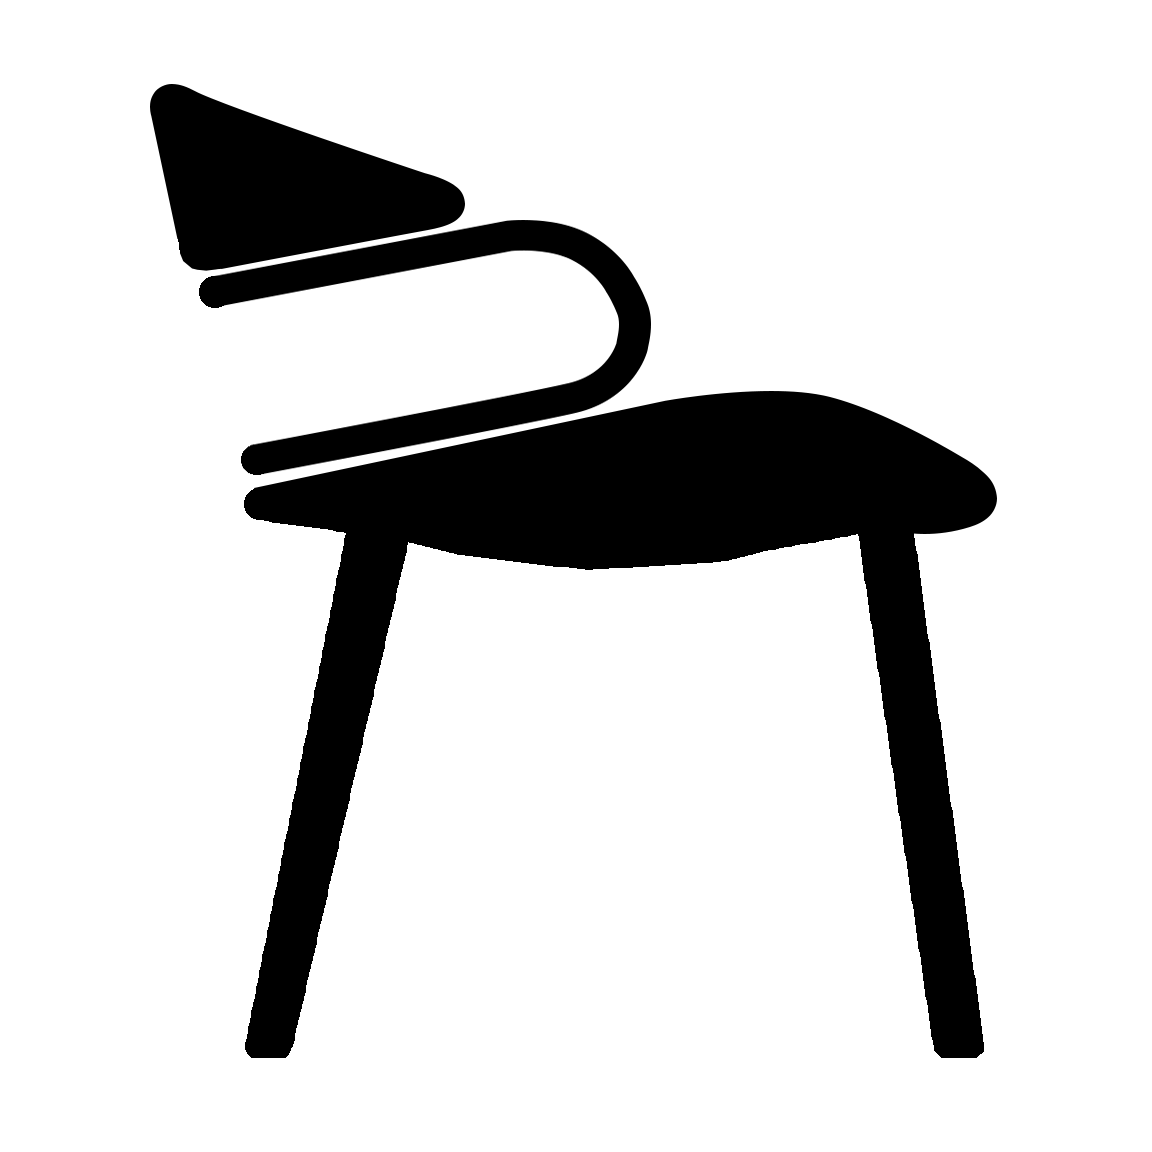
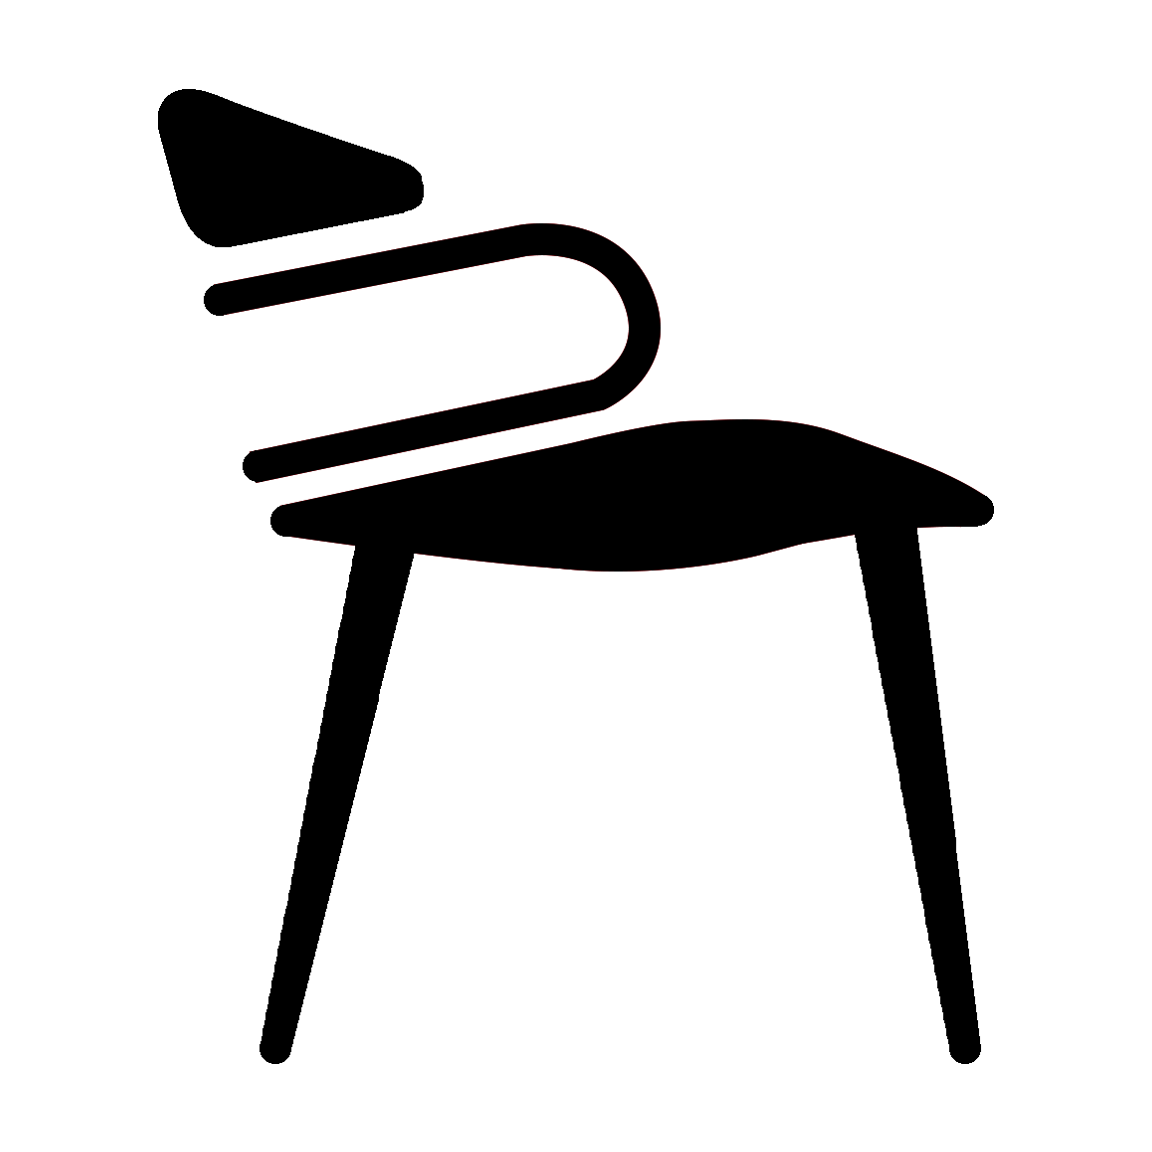
atualizacoes tlm

diff --git a/style.css b/style.css
@@ -12,23 +12,72 @@ body {
 }
 
 
-/*----------- LINTRO VIDEO ----------------------------------------------------------------------------------------------------*/
+
+/*----------- INTRO VIDEO ----------------------------------------------------------------------------------------------------*/
 .intro-video {
   position: fixed;
   top: 0;
   left: 0;
   width: 100%;
   height: 100%;
-  z-index: 9999;
+  z-index: 10000; /* Maior que tudo */
   overflow: hidden;
   background: black;
+  
+  /* CRÍTICO para iPad/iOS - permite toques/cliques */
+  cursor: pointer;
+  -webkit-tap-highlight-color: rgba(255, 255, 255, 0.1);
+  touch-action: manipulation;
+  -webkit-user-select: none;
+  user-select: none;
 }
 
 .intro-video video {
   width: 100%;
   height: 100%;
   object-fit: cover;
+  
+  /* ESSENCIAL: Permite que toques/cliques passem para a div pai */
+  pointer-events: none;
+  -webkit-user-select: none;
+  user-select: none;
 }
+
+/* Indicador de play */
+.play-indicator {
+  position: absolute;
+  top: 50%;
+  left: 50%;
+  transform: translate(-50%, -50%);
+  z-index: 10;
+  text-align: center;
+  pointer-events: none;
+  animation: fadeIn 0.3s ease-in, pulse 2s infinite 0.5s;
+}
+
+@keyframes fadeIn {
+  from { 
+    opacity: 0; 
+    transform: translate(-50%, -50%) scale(0.8); 
+  }
+  to { 
+    opacity: 1; 
+    transform: translate(-50%, -50%) scale(1); 
+  }
+}
+
+@keyframes pulse {
+  0%, 100% { 
+    opacity: 1; 
+    transform: translate(-50%, -50%) scale(1); 
+  }
+  50% { 
+    opacity: 0.7; 
+    transform: translate(-50%, -50%) scale(1.05); 
+  }
+}
+
+
 
 /*----------- NUVENS E CONTEUDO ----------------------------------------------------------------------------------------------------*/
 #three-background {
@@ -56,6 +105,7 @@ body {
   position: relative;
   z-index: 200; /* HTML A FRENTE DAS NUVENS */
 }
+
 
 
 /*----------- TEXTO INICIAL ----------------------------------------------------------------------------------------------------*/
@@ -157,20 +207,23 @@ body {
 }
 
 
+
 /*----------- LOGO --------------------------------------------------------------------------------------------------------*/
 #btn-logo {
   position: fixed;
-  top: 20px;
-  left: 20px;
-  width: 70px;
-  height: auto;
-  z-index: 100; /* Fica à frente do texto inicial e principal, mas atrás do menu */
+  z-index: 100;
   cursor: pointer;
   pointer-events: auto;
   opacity: 0;
   animation: fadeInMenu 1s forwards;
   animation-delay: 2s;
+  height: auto; /* Mantém a proporção automática */
+  width: clamp(70px, 5vw, 70px);
+  top: clamp(15px, 3vw, 20px);
+  left: clamp(15px, 3vw, 20px);
 }
+
+
 
 /*----------- MENU TOPO ----------------------------------------------------------------------------------------------------*/
 .top-menu {
@@ -231,7 +284,6 @@ body {
 
 
 
-
 /*----------- Página Inicial ----------------------------------------------------------------------------------------------------*/
 .home-page {
   position: fixed;
@@ -266,7 +318,6 @@ body {
   }
 }
 
-
 .home-title {
   font-family: 'Anton', sans-serif;
   font-size: 18vw;
@@ -282,7 +333,6 @@ body {
   animation: slideUpFade 1.5s ease-out forwards;
   animation-delay: 0s;
 }
-
 
 .home-subtitle {
   position: absolute;
@@ -300,7 +350,6 @@ body {
   opacity: 0; /* começa invisível */
   text-shadow: 0px 1px 10px rgba(0, 0, 0, 0.2);
 }
-
 
 .page {
   position: fixed;
@@ -322,7 +371,6 @@ body {
   visibility: visible;
   pointer-events: auto;
 }
-
 
 
 
@@ -359,7 +407,7 @@ body {
 }
 
 .gallery-wrapper {
-  width: 90vw;
+  width: 100vw;
   height: 100vh;
   display: flex;
   align-items: center;

diff --git a/index.html b/index.html
@@ -29,36 +29,43 @@
 
 <!--------------- INTRO VIDEO ------------------------------------------------->
 <div class="intro-video" id="intro">
-    <video playsinline autoplay muted class="intro-bg" id="introVideo">
+    <video 
+        playsinline 
+        autoplay 
+        muted 
+        preload="auto"
+        webkit-playsinline
+        class="intro-bg" 
+        id="introVideo">
         <source src="./mainpage/INTRO_VIDEO.mp4" type="video/mp4">
         Your browser does not support the video tag.
     </video>
 </div>
 
-  <!-- Vertex Shader -->
-  <script id="vs" type="x-shader/x-vertex">
-    varying vec2 vUv;
-    void main() {
-      vUv = uv;
-      gl_Position = projectionMatrix * modelViewMatrix * vec4(position, 1.0);
-    }
-  </script>
+<!-- Vertex Shader -->
+<script id="vs" type="x-shader/x-vertex">
+  varying vec2 vUv;
+  void main() {
+    vUv = uv;
+    gl_Position = projectionMatrix * modelViewMatrix * vec4(position, 1.0);
+  }
+</script>
 
-  <!-- Fragment Shader -->
-  <script id="fs" type="x-shader/x-fragment">
-    uniform sampler2D map;
-    uniform vec3 fogColor;
-    uniform float fogNear;
-    uniform float fogFar;
-    varying vec2 vUv;
-    void main() {
-      float depth = gl_FragCoord.z / gl_FragCoord.w;
-      float fogFactor = smoothstep(fogNear, fogFar, depth);
-      gl_FragColor = texture2D(map, vUv);
-      gl_FragColor.w *= pow(gl_FragCoord.z, 20.0);
-      gl_FragColor = mix(gl_FragColor, vec4(fogColor, gl_FragColor.w), fogFactor);
-    }
-  </script>
+<!-- Fragment Shader -->
+<script id="fs" type="x-shader/x-fragment">
+  uniform sampler2D map;
+  uniform vec3 fogColor;
+  uniform float fogNear;
+  uniform float fogFar;
+  varying vec2 vUv;
+  void main() {
+    float depth = gl_FragCoord.z / gl_FragCoord.w;
+    float fogFactor = smoothstep(fogNear, fogFar, depth);
+    gl_FragColor = texture2D(map, vUv);
+    gl_FragColor.w *= pow(gl_FragCoord.z, 20.0);
+    gl_FragColor = mix(gl_FragColor, vec4(fogColor, gl_FragColor.w), fogFactor);
+  }
+</script>
 
   <!-- Bibliotecas -->
   <script src="js/three.min.js"></script>

diff --git a/projects/general_css.css b/projects/general_css.css
@@ -809,66 +809,6 @@ model-viewer.visible {
   }
 }
 
-/* --- Responsive Adjustments --- */
-@media (max-width: 1024px) {
-  .gallery {
-    width: 28%; /* Wider on slightly smaller screens */
-    right: 15px;
-  }
-  .gallery-item {
-    flex: 1 1 120px;
-    max-width: 160px;
-  }
-}
-
-@media (max-width: 768px) {
-  .gallery {
-    right: 10px;
-    width: 90%; /* Much wider on tablets/larger phones */
-    max-height: 80%;
-    left: 50%;
-    transform: translateX(-50%); /* Center the gallery */
-    bottom: 10px !important; /* Ensure it stays at the bottom */
-  }
-  .gallery.closed {
-    animation: slideDown 1.0s ease-in forwards;
-    transform: translateX(-50%) translateY(100%); /* Adjust transform for closing */
-  }
-  .gallery-items {
-    justify-content: center; /* Center items on smaller screens */
-    padding: 10px;
-  }
-  .gallery-item {
-    flex: 1 1 100px; /* Smaller base for items */
-    max-width: 150px;
-  }
-  .gallery-text {
-    font-size: 1em;
-    padding: 12px;
-  }
-}
-
-@media (max-width: 480px) {
-  .gallery {
-    right: 5px;
-    left: 5px;
-    width: auto; /* Let content dictate width within padding */
-    max-height: 85%;
-    bottom: 5px !important;
-    transform: none; /* Remove transform for centering if width is auto */
-  }
-  .gallery.closed {
-    transform: translateY(100%); /* Adjust transform for closing */
-  }
-  .gallery-items {
-    gap: 8px; /* Slightly less gap on very small screens */
-  }
-  .gallery-item {
-    flex: 1 1 100%; /* Stack items vertically on very small phones */
-    max-width: 90%; /* Max width relative to gallery */
-    margin: 0 auto; /* Center individual items */
-  }
-}
 
 
 

diff --git a/main.js b/main.js
@@ -257,6 +257,7 @@ document.addEventListener('DOMContentLoaded', () => {
     { src: 'projects/model5/thumbnail.png', title: 'GF CHAIR', model: 'model5' },
     { src: 'projects/model4/thumbnail.png', title: 'CANTAREIRA', model: 'model4' },
     { src: 'projects/model13/thumbnail.png', title: 'FLOWERPOT', model: 'model13' },
+    { src: 'projects/model14/thumbnail.png', title: 'MUDHIF CHAIR', model: 'model14' },
     { src: 'projects/model3/thumbnail.png', title: 'IN PROGRESS', model: 'model3' },
     { src: 'projects/model12/thumbnail.png', title: 'IN PROGRESS', model: 'model12' },
     { src: 'projects/model8/thumbnail.png', title: 'IN PROGRESS', model: 'model8' },
